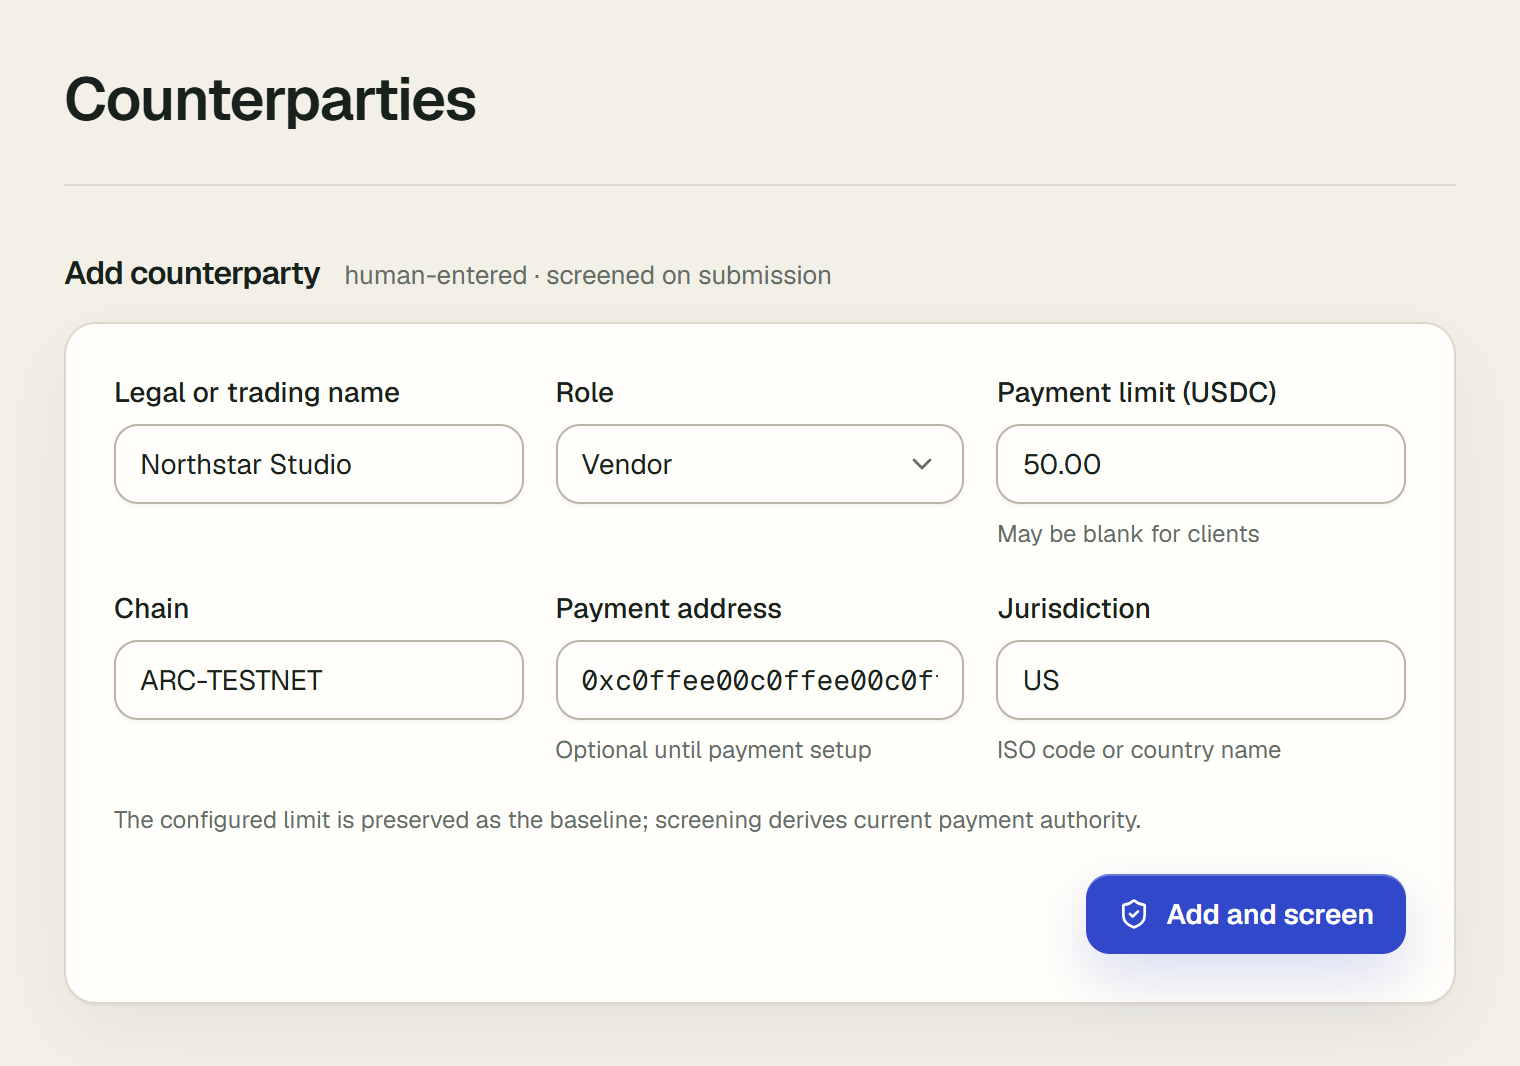
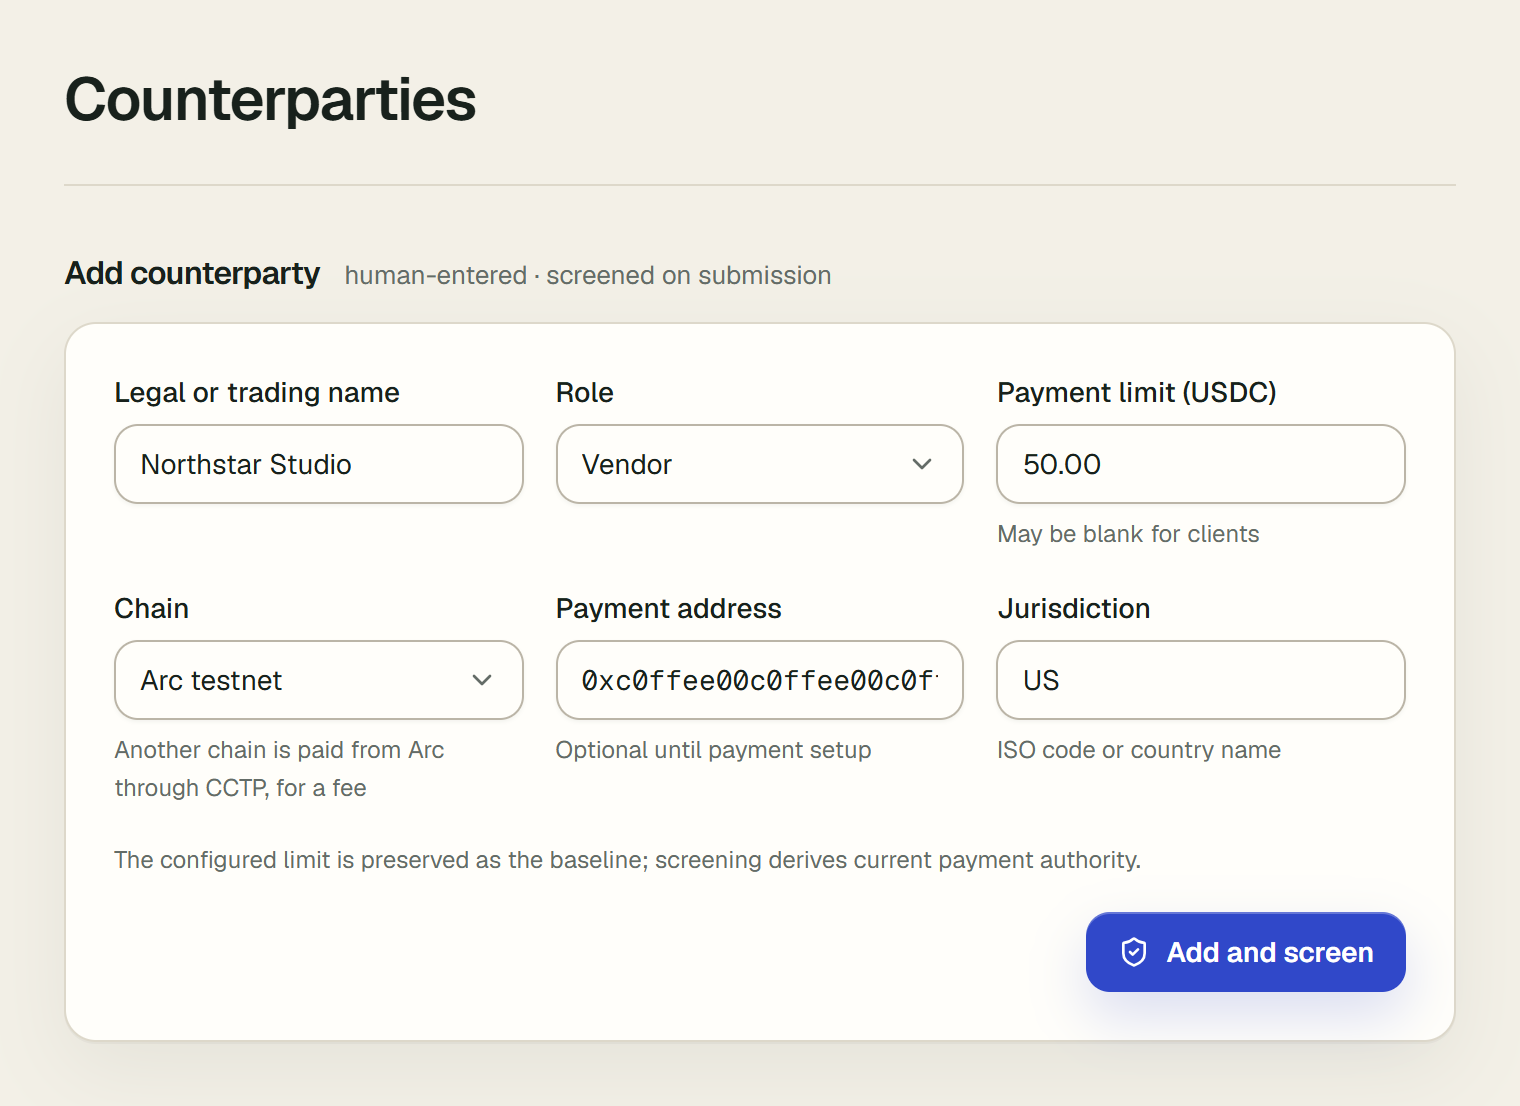
Show a bridged payment's mint next to its burn, and document payees on other chains

diff --git a/src/components/vx/map.ts b/src/components/vx/map.ts
@@ -5,6 +5,7 @@ import type { LedgerEntry } from "@/lib/ledger";
 import type { CounterpartyRow, InvoiceRow, MilestoneRow, TreasuryActionRow } from "@/lib/queries";
 import type { Decision, Evidence, Guardrail, Outcome } from "./types";
 import { fmt } from "./Primitives";
+import { paidAcrossChains, payeeChain } from "@/lib/payee-chains";
 
 /**
  * Renders the duplicate-billing check as evidence in its own right — including
@@ -171,14 +172,29 @@ export function invoiceDecision(invoice: InvoiceRow, counterparty: CounterpartyR
       { label: "Due", value: new Date(invoice.due_date).toLocaleDateString("en-US"), state: "neutral" },
       termsEvidence(invoice),
       paidEvidence(invoice),
+      paidAcrossChains(counterparty?.chain) ? { label: "Paid on", value: `${payeeChain(counterparty?.chain).label}, through CCTP`, state: "neutral" as const } : null,
       duplicateEvidence(observed),
     ].filter((item): item is Evidence => item !== null),
     guardrail: guardrailBlocked ? invoiceGuardrail(invoice.amount, currency, usdcValue, limit, risk, rule, entry?.detail) : null,
     decisionMode: stringValue(entry?.detail.decisionMode),
     txHash: invoice.tx_ref?.startsWith("0x") ? invoice.tx_ref : null,
+    mint: mintOf(invoice.id, entries),
     auditSeq: entry?.seq,
     at: entry?.ts ?? invoice.due_date,
   };
+}
+
+/** A bridged payment's mint, from whichever of the invoice's entries recorded it: the decision, or a later reconcile. */
+function mintOf(invoiceId: string, entries: LedgerEntry[]): Decision["mint"] {
+  for (const entry of entries) {
+    if (entry.detail.invoiceId !== invoiceId) continue;
+    const execution = record(entry.detail.execution);
+    const txHash = stringValue(execution?.mintTxHash);
+    if (!txHash) continue;
+    const chain = payeeChain(stringValue(execution?.destinationChain));
+    return { chainLabel: chain.label, txHash, href: `${chain.explorerTx}${txHash}` };
+  }
+  return null;
 }
 
 /**

diff --git a/tests/invoice-decision.test.ts b/tests/invoice-decision.test.ts
@@ -236,3 +236,21 @@ describe("invoiceDecision: a EURC invoice (EURC invoices design E6)", () => {
     expect(decision.guardrail).toMatchObject({ rule: "counterparty.payment_limit", attempted: 117, attemptedToken: "USDC", limit: 110, limitToken: "USDC" });
   });
 });
+
+describe("invoiceDecision: a payee on another chain (CCTP payouts X11)", () => {
+  const reconciled = { seq: 12, id: "e12", ts: "2026-10-01T09:01:00.000Z", actor: "agent", domain: "ap", action: "ap_reconcile", summary: "",
+    detail: { invoiceId: "inv-1", reconciled: true, execution: { txRef: "0xburn", destinationChain: "BASE-SEPOLIA", mintTxHash: "0xmint" } } } as unknown as LedgerEntry;
+
+  it("links the mint on the payee's chain next to the burn on Arc, and says how it was paid", () => {
+    const decision = invoiceDecision(invoice({ status: "paid", tx_ref: "0xburn" }), { payment_limit: 10, chain: "BASE-SEPOLIA" } as never, [reconciled]);
+    expect(decision.txHash).toBe("0xburn");
+    expect(decision.mint).toEqual({ chainLabel: "Base Sepolia", txHash: "0xmint", href: "https://sepolia.basescan.org/tx/0xmint" });
+    expect(decision.evidence).toContainEqual({ label: "Paid on", value: "Base Sepolia, through CCTP", state: "neutral" });
+  });
+
+  it("has no mint for a payee on Arc", () => {
+    const decision = invoiceDecision(invoice({ status: "paid", tx_ref: "0xabc" }), { payment_limit: 10, chain: "ARC-TESTNET" } as never, []);
+    expect(decision.mint ?? null).toBeNull();
+    expect(decision.evidence.find((item) => item.label === "Paid on")).toBeUndefined();
+  });
+});

diff --git a/tests/decision-card.test.tsx b/tests/decision-card.test.tsx
@@ -51,6 +51,18 @@ describe("DecisionCard", () => {
     expect(markup).toContain("https://testnet.arcscan.app/tx/0x");
   });
 
+  it("links the mint on the payee's chain after the burn on Arc (CCTP payouts X11)", () => {
+    const markup = html(
+      <DecisionCard
+        decision={{ ...base, txHash: `0x${"ab".repeat(32)}`, mint: { chainLabel: "Base Sepolia", txHash: `0x${"cd".repeat(32)}`, href: `https://sepolia.basescan.org/tx/0x${"cd".repeat(32)}` } }}
+        orgSlug="acme"
+      />
+    );
+    expect(markup).toContain("https://testnet.arcscan.app/tx/0x");
+    expect(markup).toContain(`href="https://sepolia.basescan.org/tx/0x${"cd".repeat(32)}"`);
+    expect(markup).toContain("minted on Base Sepolia");
+  });
+
   it("shows the rule a refused decision broke, and says nothing was sent", () => {
     const refused: Decision = {
       ...base,

diff --git a/src/lib/agent/orchestrator.ts b/src/lib/agent/orchestrator.ts
@@ -1260,6 +1260,8 @@ async function decideApPayable(
         settledInMs: paymentExecution?.settledInMs ?? null,
         executedAt: paymentExecution?.executedAt ?? null,
         reconciled: paymentExecution?.reconciled ?? false,
+        // A bridged payment: where it mints, and the mint when it came at once (CCTP payouts X8).
+        ...(paymentExecution?.destinationChain ? { destinationChain: paymentExecution.destinationChain, mintTxHash: paymentExecution.mintTxHash ?? null } : {}),
         // D6: the ledger says the pause is why this held, not just the
         // reasoning text — set only when it is, so it is unambiguous from
         // a hold for a missing operating account or a failed transfer.

diff --git a/tests/cctp-ap.test.ts b/tests/cctp-ap.test.ts
@@ -261,3 +261,13 @@ describe("a bridged payment in flight (X8)", () => {
     expect(entry.p_detail).toMatchObject({ execution: { mintTxHash: "0xmint", destinationChain: "BASE-SEPOLIA" } });
   });
 });
+
+describe("a bridge whose mint came at once", () => {
+  it("is paid, and the decision's entry names the mint", async () => {
+    model("pay");
+    const { fake, stage } = apFake({ book: [payable()], minted: "0xmint" });
+    await stage();
+    expect(patches(fake.requests)[0]).toMatchObject({ status: "paid" });
+    expect(entries(fake.requests)[0].p_detail).toMatchObject({ execution: { destinationChain: "BASE-SEPOLIA", mintTxHash: "0xmint" } });
+  });
+});

diff --git a/src/components/vx/DecisionCard.tsx b/src/components/vx/DecisionCard.tsx
@@ -88,6 +88,12 @@ export function DecisionCard({ decision, compact = false, orgSlug }: { decision:
               ) : refused ? (
                 <span className="font-mono text-xs text-refused">no transaction sent</span>
               ) : null}
+              {decision.mint && (
+                <span className="inline-flex items-center gap-1.5 text-xs text-ink-3">
+                  minted on {decision.mint.chainLabel}
+                  <Hash value={decision.mint.txHash} href={decision.mint.href} />
+                </span>
+              )}
             </div>
           </footer>
         )}

diff --git a/tests/docs-guides.test.ts b/tests/docs-guides.test.ts
@@ -104,7 +104,7 @@ const QUOTED: Record<GuideSlug, Array<readonly [string, string]>> = {
     ["Only an owner or admin of this workspace can add counterparties.", COUNTERPARTIES_PAGE],
     ["Legal or trading name", COUNTERPARTY_FORM],
     ["Payment limit (USDC)", COUNTERPARTY_FORM],
-    ["ARC-TESTNET", COUNTERPARTY_FORM],
+    ["Another chain is paid from Arc through CCTP, for a fee", COUNTERPARTY_FORM],
     ["Payment address", COUNTERPARTY_FORM],
     ["Optional until payment setup", COUNTERPARTY_FORM],
     ["Jurisdiction", COUNTERPARTY_FORM],

diff --git a/src/components/vx/types.ts b/src/components/vx/types.ts
@@ -34,6 +34,8 @@ export interface Decision {
   guardrail?: Guardrail | null;
   decisionMode?: string;
   txHash?: string | null;
+  /** A payment to a payee on another chain: its mint there, which Circle's Forwarding Service submitted (CCTP payouts X11). */
+  mint?: { chainLabel: string; txHash: string; href: string } | null;
   auditSeq?: number;
   at: string;
 }
